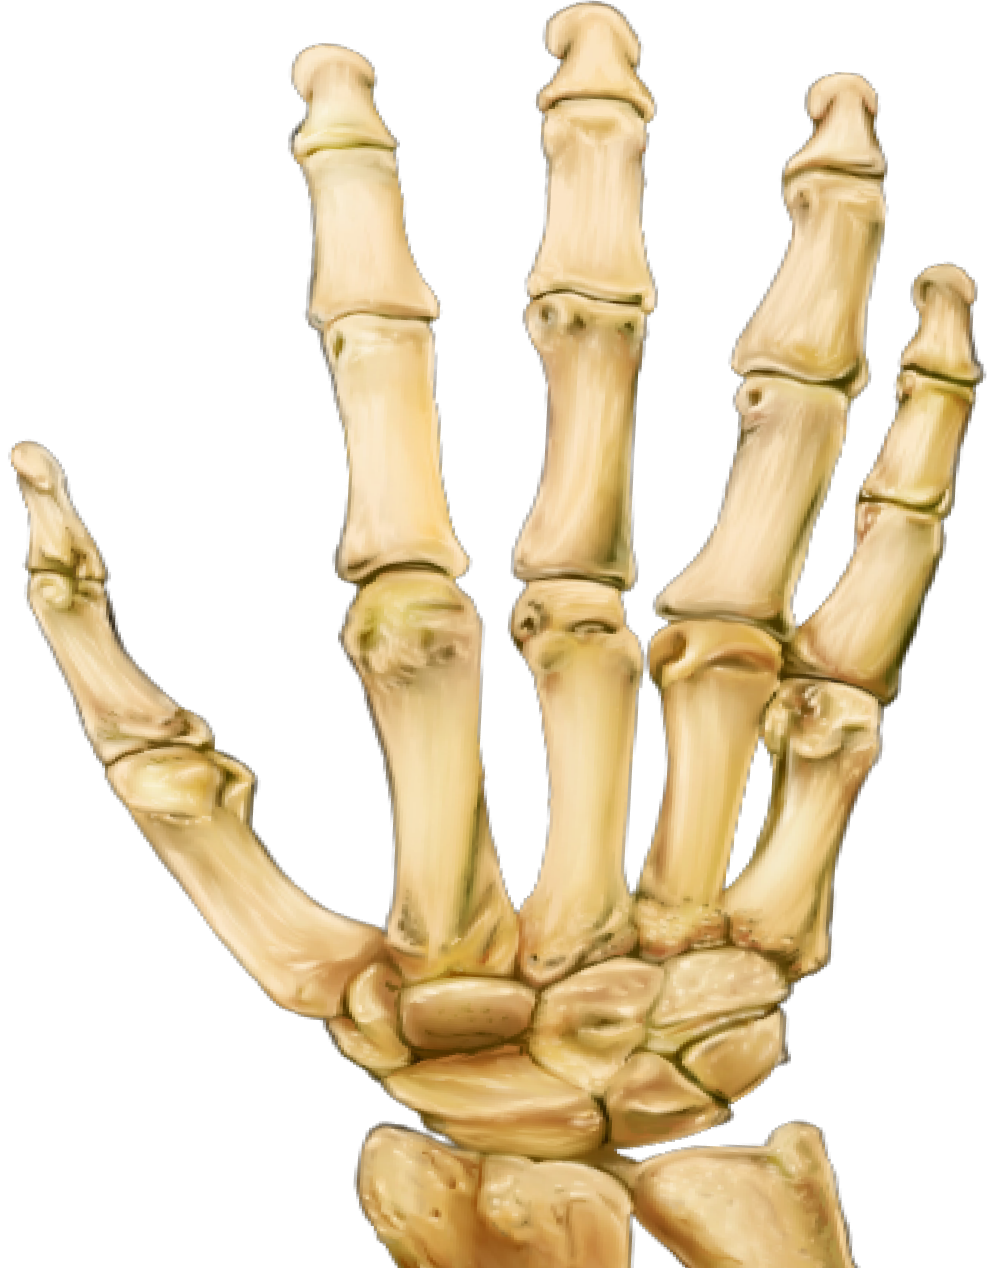
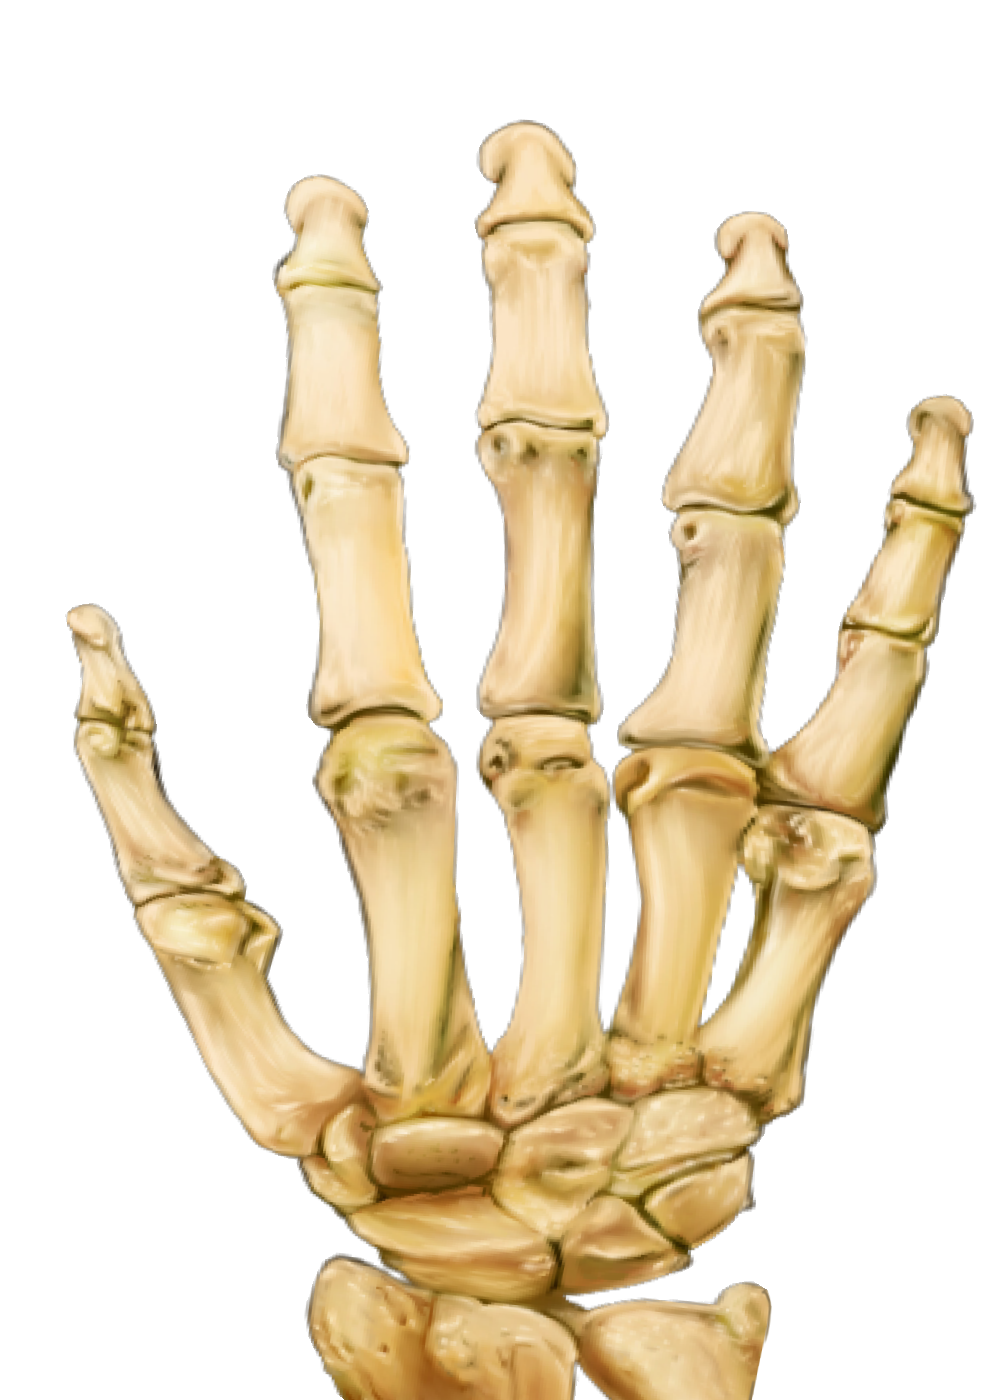
dinner!

diff --git a/index.html b/index.html
@@ -17,10 +17,10 @@
 
     <div class=" cover" id="title">
         <!-- <img class="hand" src="assets/images/bio-hand.png" alt="wufax"> -->
-        <div class="hand"></div>
+        <div id="hand"></div>
         <h1 id="title">指甲油纪事</h1>
     </div>
-    <nav class="navbar navbar-default navbar-fixed-top navbar">
+    <!-- <nav class="navbar navbar-default navbar-fixed-top navbar">
         <ul>
             <li>
                 大
@@ -38,7 +38,8 @@
                 小
             </li>
         </ul>
-    </nav>
+    </nav> -->
+    <script src="js/myscript.js"></script>
     <script src="js/jquery.min.js"></script>
     <script src="js/bootstrap.bundle.min.js"></script>
     <script src="js/card.js"></script>

diff --git a/js/myscript.js b/js/myscript.js
@@ -1,0 +1,15 @@
+var hands = ["../assets/images/my-hand.png", "../assets/images/bio-hand.png", "../assets/images/art-hand.png", "../assets/images/medi-hand.png", "../assets/images/robo-hand.png", "../assets/images/icon-hand.png"];
+var hand = document.getElementById("hand");
+var index = 0;
+var timer = null;
+
+window.onload = function () {
+    clearInterval(timer);
+    timer = setInterval(function () {
+        hand.style.backgroundImage = 'url(' + hands[index] + ')';
+        index++;
+        index %= hands.length;
+    }, 500);
+
+    console.log('aaa')
+}

diff --git a/css/style.css b/css/style.css
@@ -13,8 +13,8 @@
     height: 66vh;
 }
 
-.hand {
-    background-image: url(../assets/images/robo-hand.png);
+#hand {
+    /* background-image: url(../assets/images/robo-hand.png); */
     /* border: 1px solid black; */
     background-repeat: 0;
     background-origin: 50% 50%;
